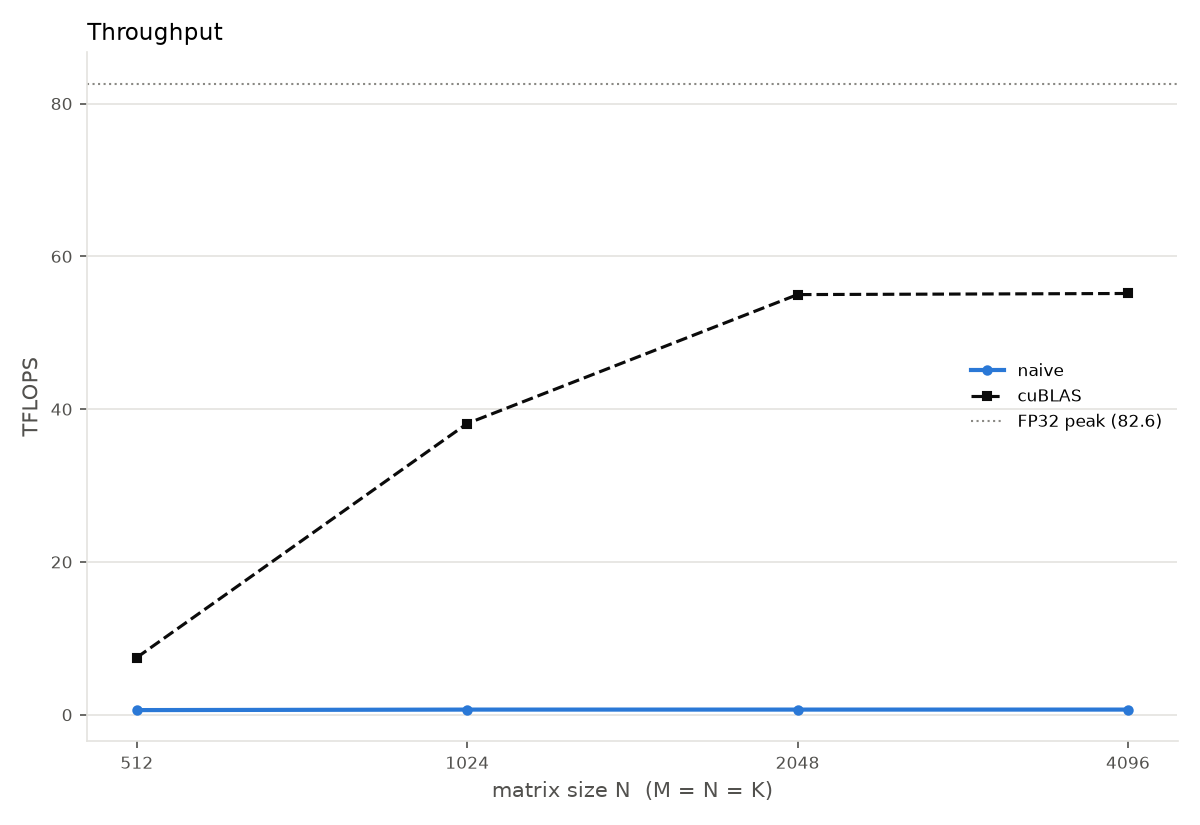
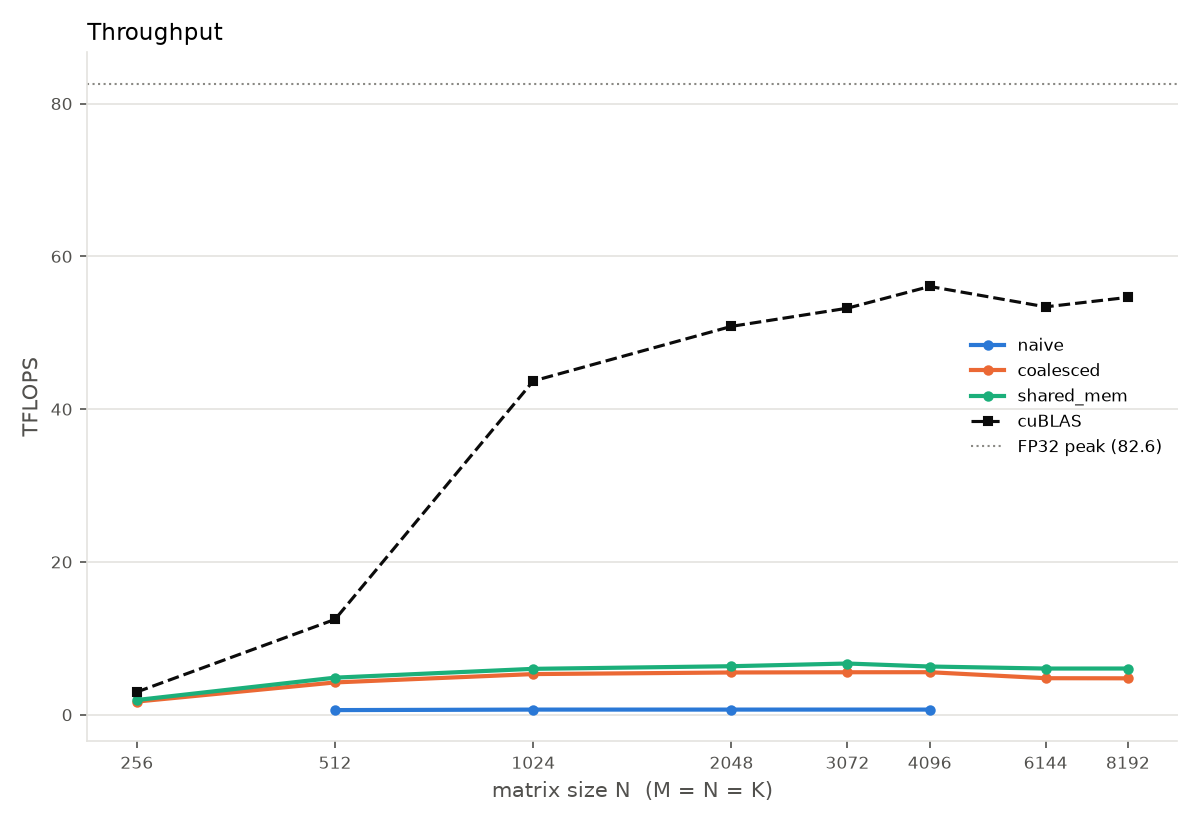
Split coalescing and shared-memory kernels into own files, fix syntax, version plot snapshots

diff --git a/scripts/plot_bench.py b/scripts/plot_bench.py
@@ -12,9 +12,17 @@ Usage:
   python plot_bench.py --at 4096                # size used for the progress table
 
 Writes plots/overview.png, plots/{tflops,pct_cublas,time,bandwidth}.png and
-plots/progress.md, a table of where each kernel stands at one size.
+plots/progress.md, a table of where each kernel stands at one size. Those are
+always the latest; every run also keeps a copy that is never overwritten:
+
+  plots/history/<timestamp>_<kernels>/   e.g. plots/history/20261112-093000_naive+coalesced/
+
+so the step-by-step figures (naive alone, then + coalesced, then + shared_mem)
+survive later runs. Pass --no-snapshot to skip the copy.
 """
 import argparse
+import datetime as dt
+import shutil
 from pathlib import Path
 
 import matplotlib
@@ -41,6 +49,8 @@ def parse_args():
     p.add_argument("--out-dir", default=str(ROOT / "plots"))
     p.add_argument("--no-peaks", action="store_true", help="Hide the GPU peak lines")
     p.add_argument("--show", action="store_true", help="Open an interactive window too")
+    p.add_argument("--no-snapshot", action="store_true",
+                   help="Don't keep a copy in plots/history/ (only update the latest plots)")
     return p.parse_args()
 
 
@@ -178,6 +188,15 @@ def main():
     (out / "progress.md").write_text(table + "\n")
     print(table)
     print(f"\nsaved plots to {out}/")
+
+    if not args.no_snapshot:
+        stamp = dt.datetime.now().strftime("%Y%m%d-%H%M%S")
+        labels = "+".join(df["kernel"].iloc[0] for df in frames)
+        snap = out / "history" / f"{stamp}_{labels}"
+        snap.mkdir(parents=True, exist_ok=True)
+        for name in ["overview.png", *[f"{k}.png" for k in kinds], "progress.md"]:
+            shutil.copy2(out / name, snap / name)
+        print(f"kept a copy in {snap}/")
 
     if args.show:
         plt.show()

diff --git a/scripts/bench_matmul.py b/scripts/bench_matmul.py
@@ -57,8 +57,8 @@ BUILD_DIR = ROOT / "build"
 # name -> source file and host function. Order here is the order of the progression.
 KERNELS = {
     "naive": {"source": "cuda/naive.cu", "func": "sgemm_naive"},
-    "coalesced": {"source": "cuda/memory_coalescing.cu", "func": "sgemm_coalesced"},
-    "shared_mem": {"source": "cuda/memory_coalescing.cu", "func": "sgemm_shared_mem"},
+    "coalesced": {"source": "cuda/gmem_coalescing.cu", "func": "sgemm_coalesced"},
+    "shared_mem": {"source": "cuda/smem_caching.cu", "func": "sgemm_shared_mem"},
     # "tiling_1d": {"source": "cuda/1D-tiling.cu", "func": "sgemm_tiling_1d"},
     # "tiling_2d": {"source": "cuda/2D-tiling.cu", "func": "sgemm_tiling_2d"},
     # "warptiling": {"source": "cuda/warptiling.cu", "func": "sgemm_warptiling"},

diff --git a/plots/progress.md b/plots/progress.md
@@ -3,3 +3,5 @@ Progress at N = 4096
 | kernel | ms | TFLOPS | % cuBLAS | % peak | speedup vs previous | correct |
 |---|---:|---:|---:|---:|---:|---|
 | naive | 203.723 | 0.67 | 1.2% | 0.8% | - | True |
+| coalesced | 24.683 | 5.57 | 9.9% | 6.7% | 8.25x | True |
+| shared_mem | 21.770 | 6.31 | 11.3% | 7.6% | 1.13x | True |
